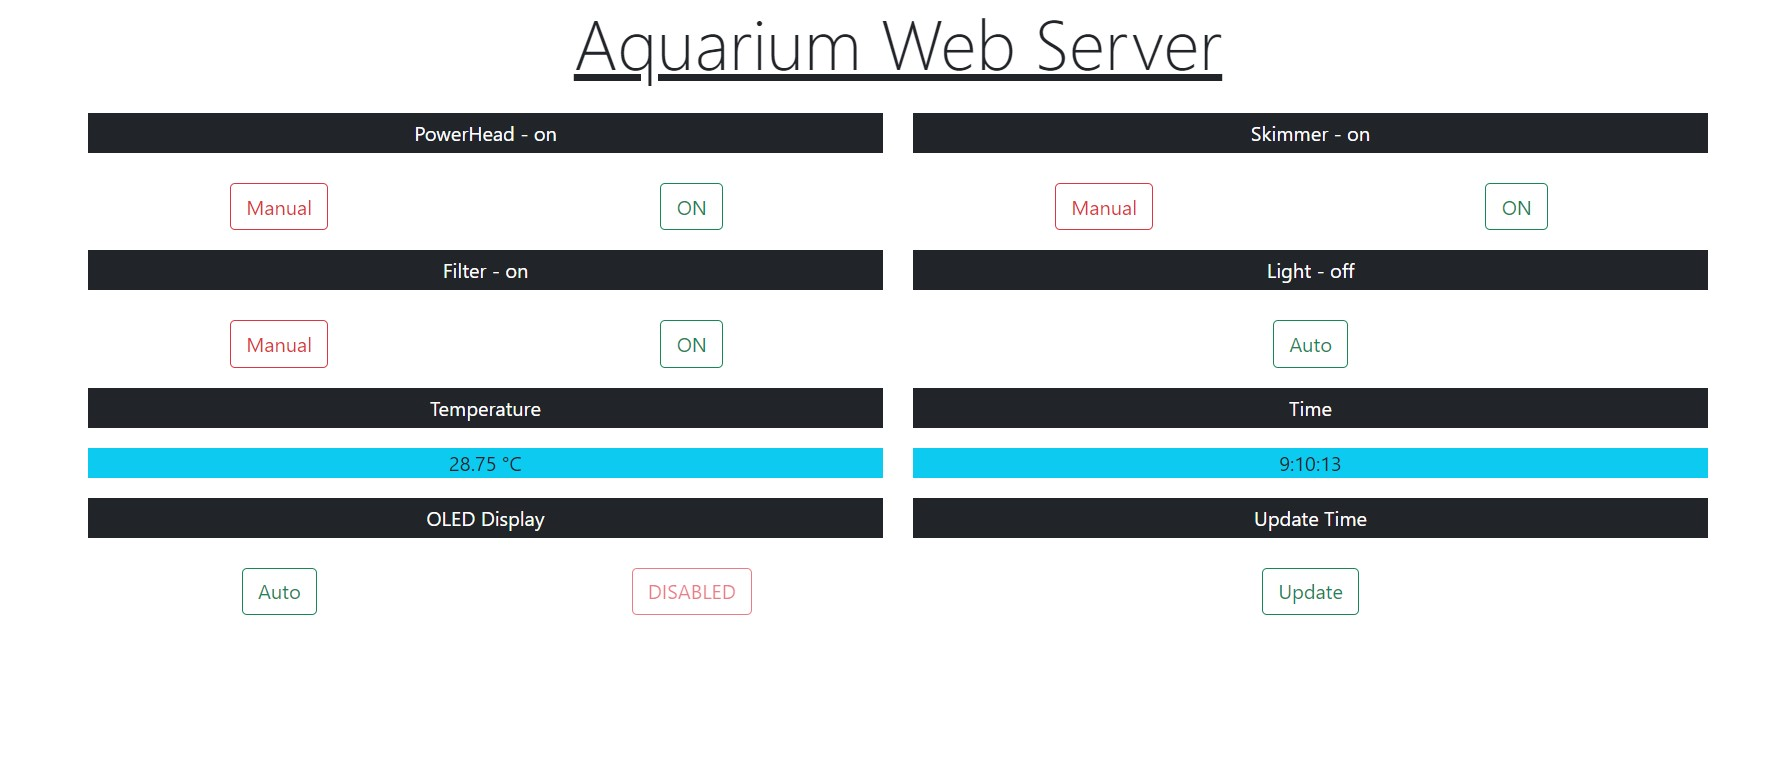
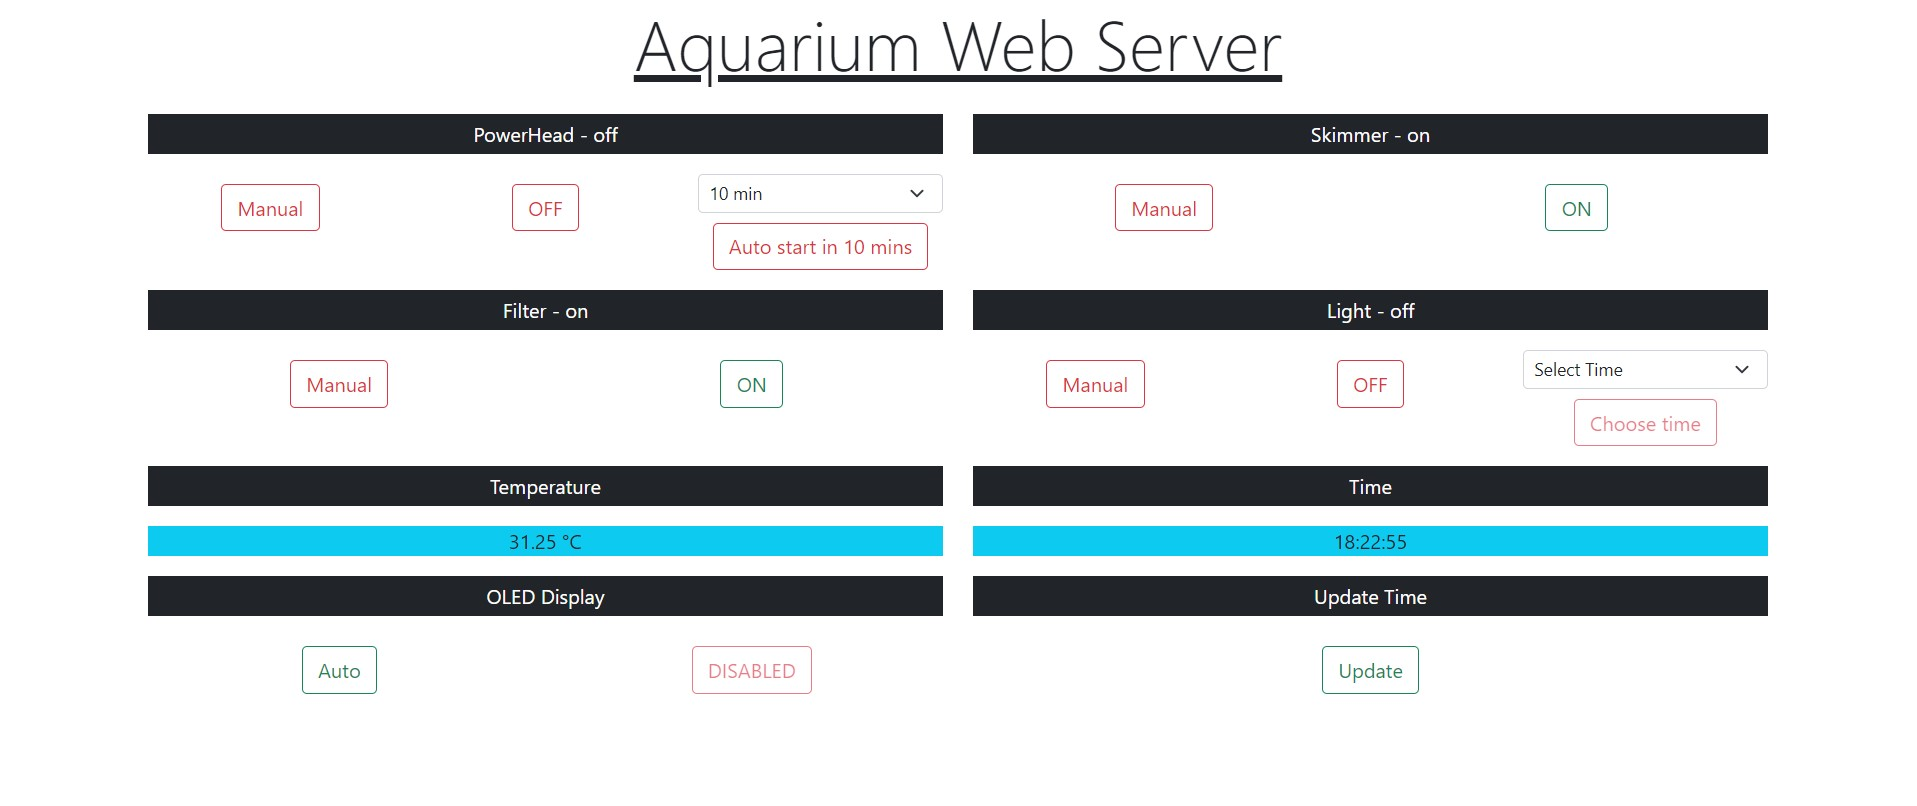
v1.11
Updated the UI of AutoTimers to give options for 5 min, 10min, 15 min, 25 min, 30 min, 45 min timers and other mild updates

Changed region(s): [[0.0309, 0.0303, 0.9568, 0.8776], [0.2778, 0.2421, 0.3086, 0.2724]]

diff --git a/README.md b/README.md
@@ -2,15 +2,17 @@
 
 FOR ANY KIND OF QUESTIONS OR QUERIES PLEASE CONTACT ME HERE: https://aniketpatra.pythonanywhere.com/contact
 
-Using NodeMCU for aquarium lights control with OTA and WiFi signal level icons.
+Also, this code needs some optimisations (I believe that) so, if you have updated something and it works better then please let me know.
 
-I take no responsibility for the use of this code. Use it with your own risk.
+Using NodeMCU for aquarium lights, filter, skimmer, power head/wavemaker control with OTA updates, timers, auto time update, visual feedbacks and WiFi signal level icons.
 
-##It works as switches which turns something on or off. This can be applied to varied of things and can be expanded as automatic dosers, automatic water changes, etc (limited by your imagination😂).
+Disclaimer: I take absolutely no responsibility for the use of this code. Use it with your own risk.
+
+##It works as "switches" which turns something on or off automatically (by time). This can be applied to varied of things and can be expanded as automatic dosers, automatic water changes, etc (limited by your imagination).
 
 For DS3231 Library use https://github.com/NorthernWidget/DS3231/releases
 
-Rest of the libraries can be downloaded within Arduino IDE Libraries Manager, and some of them are already included. Please google for "how-to" if you cannot figure it out
+Rest of the libraries can be downloaded within Arduino IDE Libraries Manager, and some of them are already included (within Arduino). Please google for "how-to" if you cannot figure it .
 
 Please add http://arduino.esp8266.com/stable/package_esp8266com_index.json in File --> Preferences --> Additional Boards Manager URLs to get support for all ESP Boards.
 
@@ -24,7 +26,7 @@ D2 --> SDA <br/>
 3.3 --> VCC <br/>
 G --> GND <br/>
 
-Yes, connect both the I2C devices to the same pin (purpose of I2C). If you are facing I2C device address related issues then please Google it. It is very common and very easy to fix.
+Yes, connect both the I2C devices to the same pin (purpose of I2C). If you are facing I2C device address related issues then please Google it. It is very common and very easy to fix. You just need to adjust one or two resistor value.
 
 For the 4 Channel relay board
 
@@ -34,7 +36,7 @@ D5 --> In2 <br/>
 D6 --> In3 <br/>
 D7 --> In4 <br/>
 
-For GND and VCC, use appropriate separate power supply (don't take power from NodeMCU, may burn). If you are using separate powersupplies for NodeMCU and Relay, then make sure to connect both the GNDs of Node and Powersupply together, else the relay module won't work. If confused, take help from google.
+For GND and VCC, use appropriate separate power supply (don't take power from NodeMCU, may burn). If you are using separate powersupplies for NodeMCU and Relay, then make sure to connect both the GNDs of Node and Powersupply together, else the relay module won't work. If confused, take help from google or contact me.
 
 ##MAIN Parts: <br/>
 <img src="https://m.media-amazon.com/images/I/71TWos73PrL._SL1100_.jpg" alt="Relay Board" width="200" height="200"> <br/>
